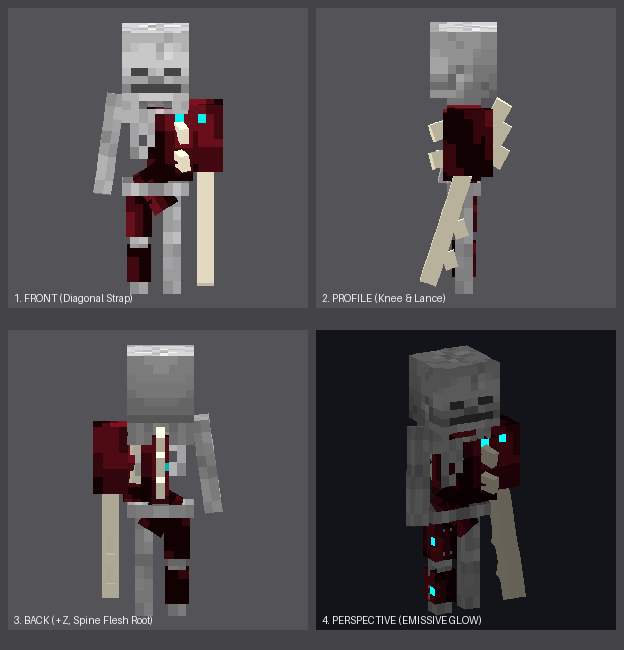
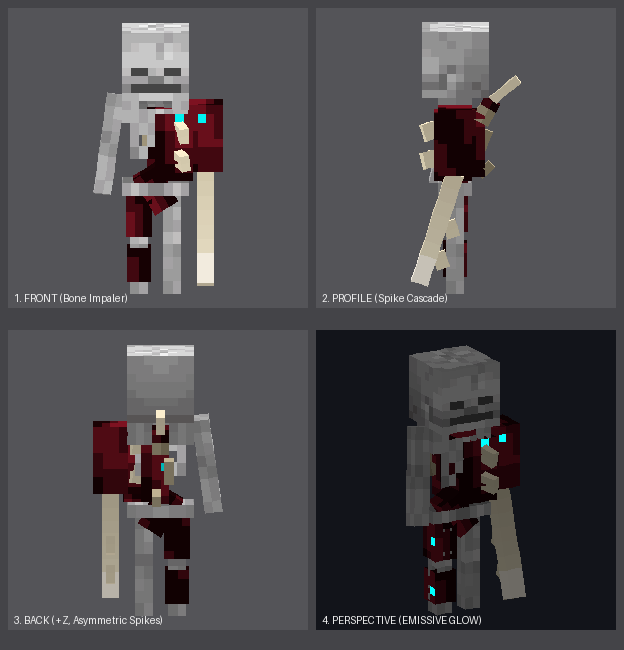
fix(artist): add rule 12 and resculpt infected_skeleton_b rev6 asymmetric segmented spikes

diff --git a/04-artist/BENCHMARK_RULES.md b/04-artist/BENCHMARK_RULES.md
@@ -62,3 +62,10 @@
 - **ПРАВИЛО 9: БИО-ЛОГИКА GLOWMASK (ЦИАН ТОЛЬКО В МЯСЕ).** Кальций мёртв — запрещено рисовать `#00FFFF` на чистых костях. Свечение размещается строго в глубине мышечных расщелин и на сенсорных щупальцах.
 - **ПРАВИЛО 10: СЕНСОРНЫЕ ВЫРОСТЫ В ПУСТОТАХ ХОСТА.** Пустые глазницы и открытые суставы используются для вывода сочленённых щупалец (`eye_tendril_base` -> `eye_tendril_tip`).
 - **ПРАВИЛО 11: РАЗНООБРАЗИЕ ТОПОГРАФИИ ЗАРАЖЕНИЯ.** Разрешены горизонтальные срезы (чистый низ / чудовищный верх), диагональные наплывы и очаговые вздутия.
+
+- **ПРАВИЛО 12: ЗАКОН ОРГАНИЧЕСКОЙ ГРАДАЦИИ И СЕГМЕНТАЦИИ ШИПОВ (ЗАПРЕТ «РАСЧЁСКИ»).**
+  Категорически запрещено дублировать одинаковые костяные шипы и пластины вдоль одной оси с одинаковым шагом. Органические наросты Улья обязаны подчиняться законам живой асимметрии:
+  1. **Размерная иерархия:** Каскад шипов обязан иметь градацию (*доминантный массивный шип -> средний искривлённый -> мелкий рудиментарный осколок*).
+  2. **Аритмичный шаг:** Расстояния между шипами и углы наклона обязаны отличаться (разброс углов от 20° до 50°, смещение относительно центральной оси).
+  3. **Составная сегментация длины:** Крупные шипы обязаны собираться минимум из 2 сужающихся сегментов (`spike_base` -> `spike_tip`).
+  4. **Текстурный градиент кости:** У основания обязательна манжета разорванной багровой плоти (`#450911`), нижние грани затеняются (`#A89C80`), боковые — слоновая кость (`#EDE3C7`), остриё — кальциевый блик (`#FFF8EA`).
